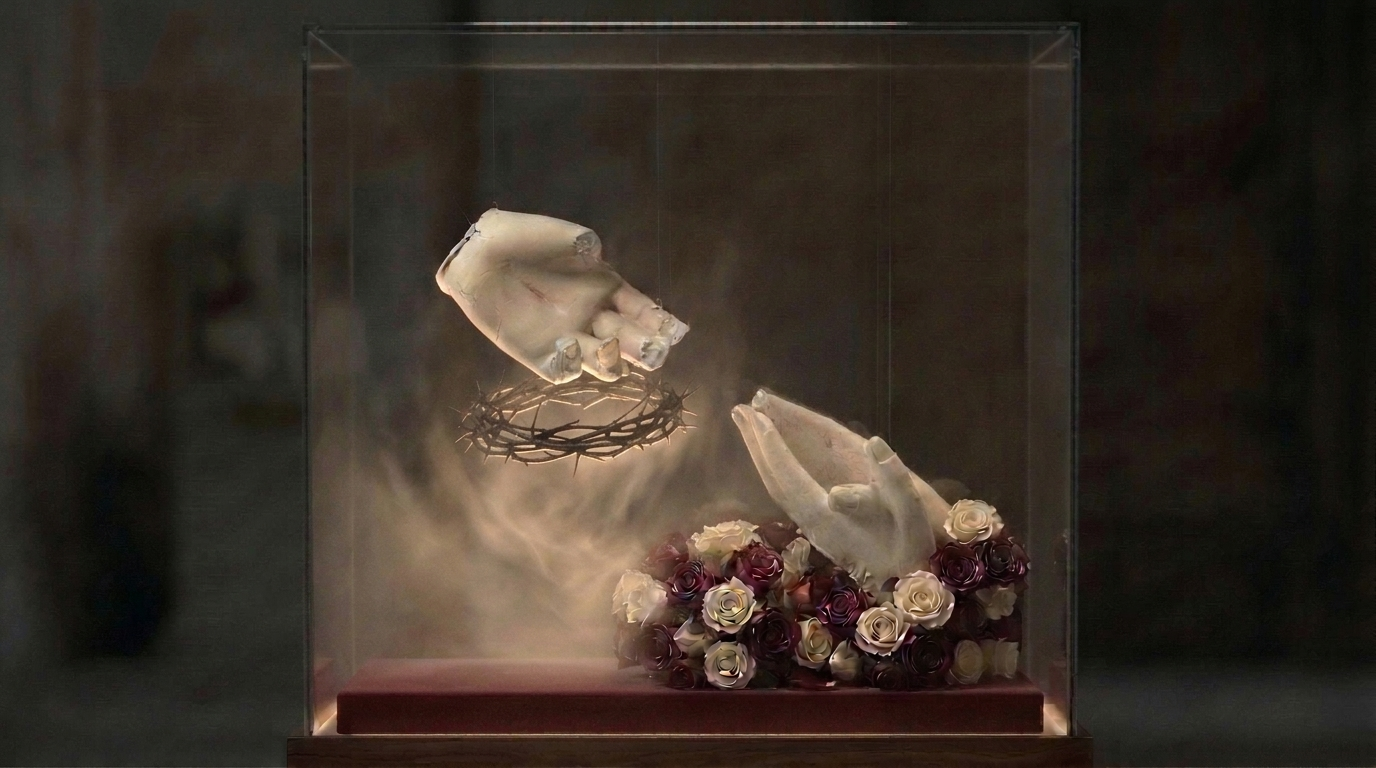
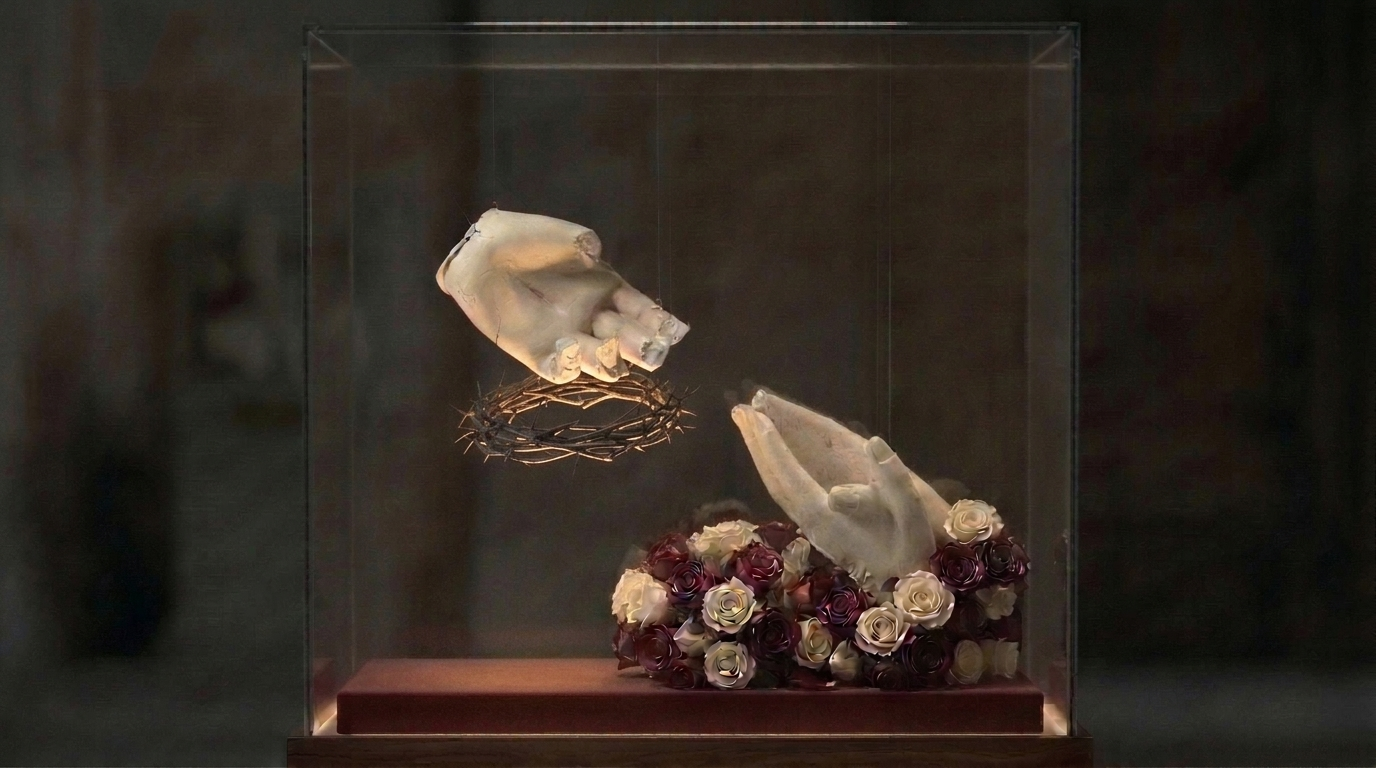
Add Korean Catholic sanctuary entrance renders and pure mist-free upward lighting close-up

Changed region(s): [[0.2188, 0.3125, 0.5938, 0.9062], [0.2188, 0.4375, 0.25, 0.5]]

diff --git a/index.html b/index.html
@@ -527,17 +527,24 @@
     <section id="secRenders" class="renders-view">
       <div class="gallery-grid">
         <div class="img-card">
-          <img src="./studio-master-a-closeup.jpg" alt="최종 확정 확대한 이미지 (빛이 수놓는 운무)" />
+          <img src="./studio-sanctuary-frontal.jpg" alt="성당 성전 입구 정면 배치 시안 (순수 라이트)" />
           <div class="img-cap">
-            <h3>확대한 이미지 (빛이 수놓는 운무 최종 클로즈업 컷)</h3>
-            <p>별도 광원 노출 없이 아래에서 가시 면류관의 원형 내경으로 곱게 피어오르는 빛결 운무와 장미 화관 품에 안긴 성모 합장 손의 조우</p>
+            <h3>성전 입구 정면 배치 시안 (십자가 원목 출입문 우측 지정 위치)</h3>
+            <p>성전 원목 양개문(2.2m) 우측 벽면에 1.2m 실제 비례로 설치된 무운무 순수 상향 라이트 정면 뷰</p>
           </div>
         </div>
         <div class="img-card">
-          <img src="./studio-master-a-full.jpg" alt="최종 확정 스탠드 이미지 한 컷 (빛이 수놓는 운무)" />
+          <img src="./studio-sanctuary-corridor.jpg" alt="성당 성전 입구 복도 사선 배치 시안 (순수 라이트)" />
           <div class="img-cap">
-            <h3>스탠드 이미지 한 컷 (빛이 수놓는 운무 1.2m 전신 설치 컷)</h3>
-            <p>세로결 다크 월넛 원목 캐비닛 좌대(75cm) + 홍색 벨벳 하부 둘레 황금빛 간접조명 + 가시 면류관 빛결 운무 무반사 유리함(45cm) 일체형 뷰</p>
+            <h3>성전 입구 복도 사선 배치 시안 (출입문 사이 복도 동선 시점)</h3>
+            <p>성전 출입문 사이 벽면에 3면 투명 저철분 유리함과 상향 라이트 효과가 신자 동선을 따라 어우러진 설치 뷰</p>
+          </div>
+        </div>
+        <div class="img-card">
+          <img src="./studio-master-a-closeup.jpg" alt="확대한 이미지 (무운무 순수 라이트 클로즈업)" />
+          <div class="img-cap">
+            <h3>확대한 이미지 (무운무 순수 상향 라이트 클로즈업 컷)</h3>
+            <p>운무 없이 가시 면류관의 원형 내경·가시 하단 테두리와 파손 왼손 아랫면에 맺히는 따뜻한 상향 라이트 및 화관 품 합장 손</p>
           </div>
         </div>
       </div>
